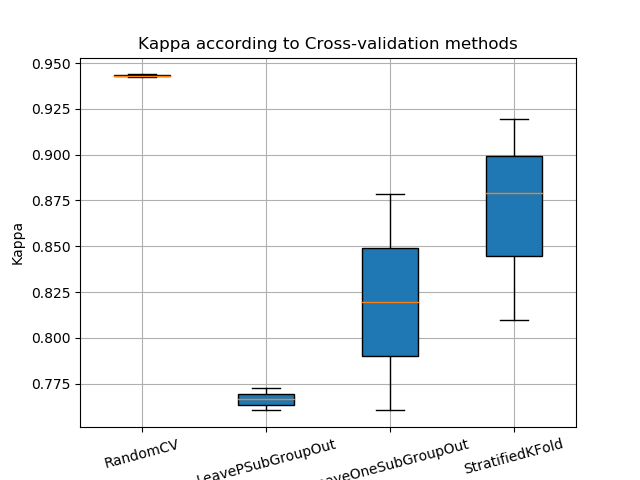
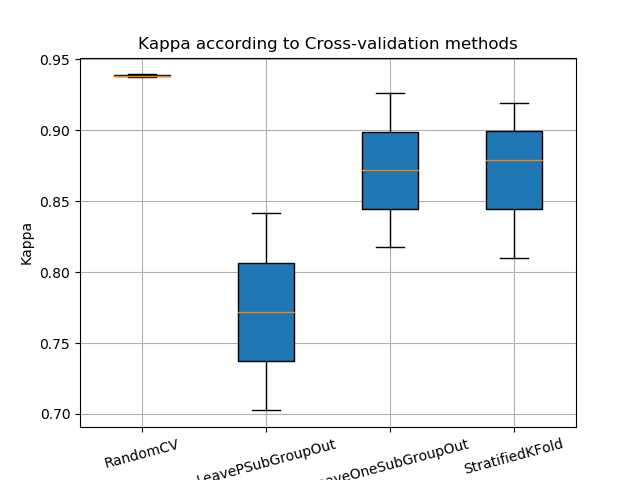
For distanceCV, compute real n_splits (not the min effective class)

diff --git a/museotoolbox/cross_validation/_sampleSelection.py b/museotoolbox/cross_validation/_sampleSelection.py
@@ -18,7 +18,7 @@ import os
 from .. import raster_tools, vector_tools
 from . import crossValidationClass
 import numpy as np
-
+from itertools import tee
 
 class _sampleSelection:
     def __init__(self):
@@ -86,12 +86,18 @@ class _sampleSelection:
 
         if y is not None:
             self.y = y
-
-        n_splits = self.crossvalidation(
-            y=y,
-            groups=groups,
-            verbose=self.verbose,
-            **self.params).n_splits
+        
+        if self.crossvalidation.__name__ == 'distanceCV':
+            ### TODO : Find a better way to get n_splits for distanceCV
+            ### As distance may differ from real n_splits, hard to not run the whole thing
+            n_splits = 0
+            for tr,vl in self.crossvalidation(
+            X=X, y=y, groups=groups, verbose=self.verbose, **self.params):
+                n_splits += 1       
+        else:
+            n_splits = self.crossvalidation(
+            X=X, y=y, groups=groups, verbose=self.verbose, **self.params).n_splits
+        
         return n_splits
 
     def split(self, X=None, y=None, groups=None):
@@ -123,7 +129,7 @@ class _sampleSelection:
         if self.__alreadyRead:
             self.reinitialize()
         self.__alreadyRead = True
-
+        
         return self.crossvalidation(
             X=X, y=y, groups=groups, verbose=self.verbose, **self.params)
 

diff --git a/docs/source/auto_examples/cross_validation/SpatialLeaveOneSubGroupOut.py b/docs/source/auto_examples/cross_validation/SpatialLeaveOneSubGroupOut.py
@@ -40,7 +40,7 @@ SLOSGO = SpatialLeaveOneSubGroupOut(distanceThresold=100,distanceMatrix=distance
 ###############################################################################
 # .. note::
 #    Split is made to generate each fold
-
+SLOSGO.get_n_splits(X,y,groups)
 for tr,vl in SLOSGO.split(X,y,groups):
     print(tr.shape,vl.shape)
     

diff --git a/examples/cross_validation/SpatialLeaveOneSubGroupOut.py b/examples/cross_validation/SpatialLeaveOneSubGroupOut.py
@@ -40,7 +40,7 @@ SLOSGO = SpatialLeaveOneSubGroupOut(distanceThresold=100,distanceMatrix=distance
 ###############################################################################
 # .. note::
 #    Split is made to generate each fold
-
+SLOSGO.get_n_splits(X,y,groups)
 for tr,vl in SLOSGO.split(X,y,groups):
     print(tr.shape,vl.shape)
     

diff --git a/museotoolbox/cross_validation/crossValidationClass.py b/museotoolbox/cross_validation/crossValidationClass.py
@@ -118,7 +118,6 @@ class distanceCV:
             # but if running self.__next__() here, iterator will be empty
             # after.
             self.n_splits = self.minEffectiveClass
-
         if self.verbose:
             print('n_splits:' + str(self.n_splits))
 

diff --git a/docs/source/auto_examples/cross_validation/SpatialLeaveOnePixelOut.py b/docs/source/auto_examples/cross_validation/SpatialLeaveOnePixelOut.py
@@ -40,7 +40,6 @@ print(SLOPO.get_n_splits(X,y))
 # .. note::
 #    Split is made to generate each fold
 
-
 for tr,vl in SLOPO.split(X,y):
     print(tr.shape,vl.shape)
     

diff --git a/examples/cross_validation/SpatialLeaveOnePixelOut.py b/examples/cross_validation/SpatialLeaveOnePixelOut.py
@@ -40,7 +40,6 @@ print(SLOPO.get_n_splits(X,y))
 # .. note::
 #    Split is made to generate each fold
 
-
 for tr,vl in SLOPO.split(X,y):
     print(tr.shape,vl.shape)
     

diff --git a/docs/source/auto_examples/learn_tools/learnWithRFandRS50.rst b/docs/source/auto_examples/learn_tools/learnWithRFandRS50.rst
@@ -134,7 +134,7 @@ Read the model
 
  .. code-block:: none
 
-    GridSearchCV(cv=<museotoolbox.cross_validation.RandomCV object at 0x7fd9f4a4dc88>,
+    GridSearchCV(cv=<museotoolbox.cross_validation.RandomCV object at 0x7f3ea1cadcf8>,
            error_score='raise',
            estimator=RandomForestClassifier(bootstrap=True, class_weight=None, criterion='gini',
                 max_depth=None, max_features='auto', max_leaf_nodes=None,
@@ -146,7 +146,7 @@ Read the model
            param_grid={'n_estimators': [100, 200]}, pre_dispatch='2*n_jobs',
            refit=True, return_train_score='warn', scoring='accuracy',
            verbose=1)
-    {'mean_fit_time': array([ 0.63643289,  1.06290293]), 'std_fit_time': array([ 0.00264573,  0.02864861]), 'mean_score_time': array([ 0.10340083,  0.20547557]), 'std_score_time': array([ 0.00057447,  0.00018334]), 'param_n_estimators': masked_array(data = [100 200],
+    {'mean_fit_time': array([ 0.59196961,  0.96169055]), 'std_fit_time': array([ 0.04691994,  0.01150239]), 'mean_score_time': array([ 0.16589677,  0.20359278]), 'std_score_time': array([ 0.05117166,  0.00047588]), 'param_n_estimators': masked_array(data = [100 200],
                  mask = [False False],
            fill_value = ?)
     , 'params': [{'n_estimators': 100}, {'n_estimators': 200}], 'split0_test_score': array([ 0.96630813,  0.96678266]), 'split1_test_score': array([ 0.96646631,  0.96646631]), 'mean_test_score': array([ 0.96638722,  0.96662449]), 'std_test_score': array([  7.90888959e-05,   1.58177792e-04]), 'rank_test_score': array([2, 1], dtype=int32), 'split0_train_score': array([ 0.99794466,  0.99794466]), 'split1_train_score': array([ 0.99794466,  0.99794466]), 'mean_train_score': array([ 0.99794466,  0.99794466]), 'std_train_score': array([ 0.,  0.])}
@@ -273,7 +273,7 @@ Plot example
 
 
 
-**Total running time of the script:** ( 0 minutes  13.689 seconds)
+**Total running time of the script:** ( 0 minutes  12.998 seconds)
 
 
 .. _sphx_glr_download_auto_examples_learn_tools_learnWithRFandRS50.py:

diff --git a/docs/source/auto_examples/charts/plotConfusionF1.rst b/docs/source/auto_examples/charts/plotConfusionF1.rst
@@ -121,8 +121,8 @@ Get kappa from each fold
 
  .. code-block:: none
 
-    0.940385871805
-    0.941668919551
+    0.939016888017
+    0.943585903415
 
 
 Get each confusion matrix from folds
@@ -147,16 +147,16 @@ Get each confusion matrix from folds
 
  .. code-block:: none
 
-    [[3693   67    1   10    0]
-     [  81 1052    0   13    0]
-     [   2    0 1137    0    0]
-     [  12   18    1  231    0]
+    [[3689   70    1   11    0]
+     [  85 1046    0   15    0]
+     [   3    0 1136    0    0]
+     [  10   17    1  234    0]
      [   4    0    0    0    0]]
-    [[3681   77    2   11    0]
-     [  72 1063    1   10    0]
+    [[3677   80    2   12    0]
+     [  64 1070    1   11    0]
      [   0    0 1139    0    0]
-     [   8   21    3  230    0]
-     [   3    1    0    0    0]]
+     [   9   23    3  227    0]
+     [   4    0    0    0    0]]
 
 
 Plot confusion matrix
@@ -207,7 +207,7 @@ Plot confusion matrix and normalize per class
 
 
 
-**Total running time of the script:** ( 0 minutes  4.210 seconds)
+**Total running time of the script:** ( 0 minutes  3.746 seconds)
 
 
 .. _sphx_glr_download_auto_examples_charts_plotConfusionF1.py:

diff --git a/docs/source/auto_examples/charts/plotConfusion.rst b/docs/source/auto_examples/charts/plotConfusion.rst
@@ -120,8 +120,8 @@ Get kappa from each fold
 
  .. code-block:: none
 
-    0.942893111237
-    0.942518762518
+    0.940361021113
+    0.942755637645
 
 
 Get each confusion matrix from folds
@@ -146,16 +146,16 @@ Get each confusion matrix from folds
 
  .. code-block:: none
 
-    [[3694   67    1    9    0]
-     [  79 1055    0   12    0]
+    [[3691   69    1   10    0]
+     [  82 1051    0   13    0]
      [   2    0 1137    0    0]
-     [  10   19    1  232    0]
+     [  10   17    1  234    0]
      [   4    0    0    0    0]]
-    [[3676   82    2   11    0]
-     [  69 1065    1   11    0]
+    [[3679   78    2   12    0]
+     [  68 1065    1   12    0]
      [   0    0 1139    0    0]
-     [   8   20    3  231    0]
-     [   3    1    0    0    0]]
+     [  10   18    3  231    0]
+     [   4    0    0    0    0]]
 
 
 Plot confusion matrix
@@ -204,7 +204,7 @@ Plot confusion matrix and normalize per class
 
 
 
-**Total running time of the script:** ( 0 minutes  5.872 seconds)
+**Total running time of the script:** ( 0 minutes  5.596 seconds)
 
 
 .. _sphx_glr_download_auto_examples_charts_plotConfusion.py:

diff --git a/docs/source/auto_examples/charts/plotConfusionAcc.rst b/docs/source/auto_examples/charts/plotConfusionAcc.rst
@@ -122,8 +122,8 @@ Get kappa from each fold
 
  .. code-block:: none
 
-    0.941746111058
-    0.942209990386
+    0.942862652475
+    0.941395064713
 
 
 Get each confusion matrix from folds
@@ -148,15 +148,15 @@ Get each confusion matrix from folds
 
  .. code-block:: none
 
-    [[3691   69    0   11    0]
-     [  82 1050    0   14    0]
+    [[3694   68    1    8    0]
+     [  81 1048    0   17    0]
      [   2    0 1137    0    0]
-     [  11   18    1  232    0]
+     [  12   18    1  231    0]
      [   4    0    0    0    0]]
-    [[3681   78    2   10    0]
-     [  68 1065    1   12    0]
+    [[3675   82    2   12    0]
+     [  70 1065    1   10    0]
      [   0    0 1139    0    0]
-     [   9   20    3  230    0]
+     [   9   19    3  231    0]
      [   3    0    1    0    0]]
 
 
@@ -217,7 +217,7 @@ Plot confusion matrix and normalize per class
 
 
 
-**Total running time of the script:** ( 0 minutes  2.620 seconds)
+**Total running time of the script:** ( 0 minutes  2.678 seconds)
 
 
 .. _sphx_glr_download_auto_examples_charts_plotConfusionAcc.py:

diff --git a/docs/source/auto_examples/learn_tools/learnWithRFandCompareCV.rst b/docs/source/auto_examples/learn_tools/learnWithRFandCompareCV.rst
@@ -115,16 +115,16 @@ Create list of different CV
     Received groups value, but randomCV don't use it
     Received groups value, but randomCV don't use it
     Kappa for RandomCV
-    0.943828963897
-    0.94260979829
+    0.937804461889
+    0.939411852727
     ====================
     Kappa for LeavePSubGroupOut
-    0.760379606039
-    0.772427843695
+    0.841518426836
+    0.702501874483
     ====================
     Kappa for LeaveOneSubGroupOut
-    0.878261553887
-    0.760478696055
+    0.817438179018
+    0.926284929162
     ====================
     Kappa for StratifiedKFold
     0.91924392195
@@ -157,7 +157,7 @@ Plot example
 
 
 
-**Total running time of the script:** ( 0 minutes  18.769 seconds)
+**Total running time of the script:** ( 0 minutes  19.002 seconds)
 
 
 .. _sphx_glr_download_auto_examples_learn_tools_learnWithRFandCompareCV.py:

diff --git a/docs/source/auto_examples/raster_tools/modalClass.rst b/docs/source/auto_examples/raster_tools/modalClass.rst
@@ -73,13 +73,13 @@ Initialize rasterMath with raster
 
  .. code-block:: none
 
-    [[143 153 128]
-     [141 151 126]
-     [149 159 134]
+    [[213 189 151]
+     [223 198 158]
+     [212 188 150]
      ..., 
-     [200 176 142]
-     [196 173 141]
-     [194 169 138]]
+     [210 189 158]
+     [201 181 148]
+     [193 174 142]]
 
 
 Let's suppose you want compute the modal classification between several predictions
@@ -158,7 +158,7 @@ Plot result
 
 
 
-**Total running time of the script:** ( 0 minutes  0.399 seconds)
+**Total running time of the script:** ( 0 minutes  0.384 seconds)
 
 
 .. _sphx_glr_download_auto_examples_raster_tools_modalClass.py:
